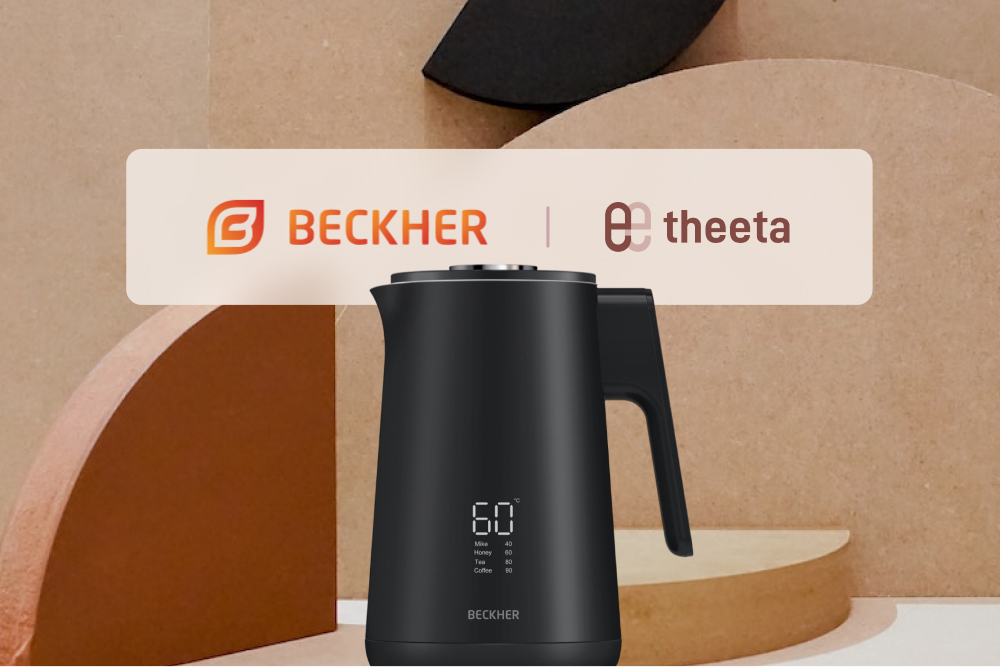
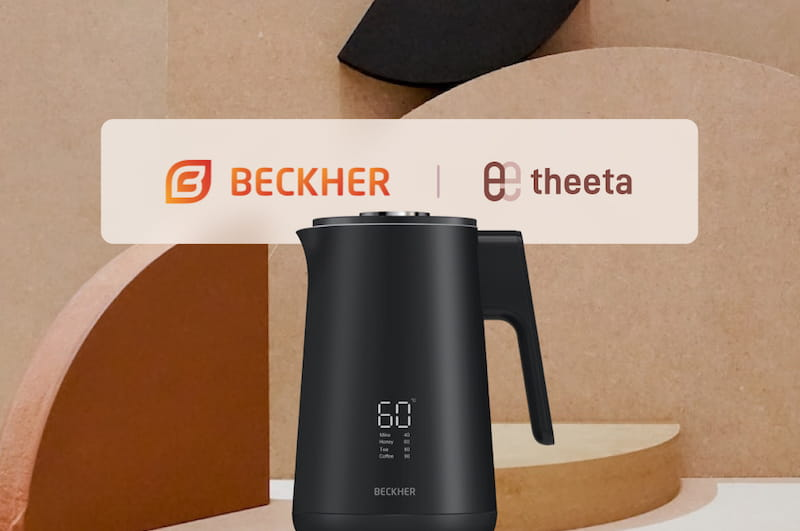
compress meta img

diff --git a/el/sanosil.html b/el/sanosil.html
@@ -2,8 +2,7 @@
 layout: brand
 title: Sanosil
 description: 
-meta-image: /assets/theeta-sanosil-meta-6x4.jpg
+meta-image: /assets/theeta-sanosil-meta.jpg
 lang: el
 ref: sanosil
 ---
-

diff --git a/en/sanosil.html b/en/sanosil.html
@@ -2,7 +2,7 @@
 layout: brand
 title: Sanosil
 description: 
-meta-image: /assets/theeta-sanosil-meta-6x4.jpg
+meta-image: /assets/theeta-sanosil-meta.jpg
 lang: en
 ref: sanosil
 ---

diff --git a/nl/sanosil.html b/nl/sanosil.html
@@ -2,7 +2,7 @@
 layout: brand
 title: Sanosil
 description: 
-meta-image: /assets/theeta-sanosil-meta-6x4.jpg
+meta-image: /assets/theeta-sanosil-meta.jpg
 lang: nl
 ref: sanosil
 ---
